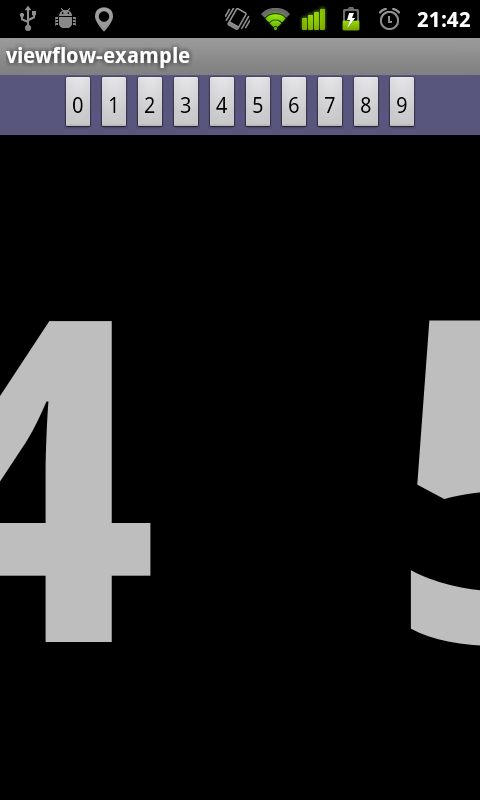
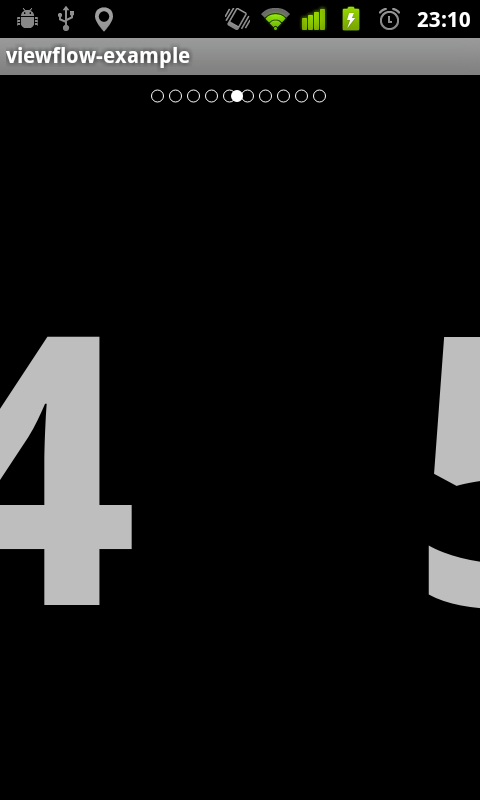
Updating README and screen shot

diff --git a/README.md b/README.md
@@ -31,8 +31,21 @@ If you need to listen to screen change events you would want to implement your o
         }
     });
 
+### Flow Indicator
+It is also possible to add a flow view indicator to your layout. The purpose of a `FlowIndicator` is to present a visual representation of where in the item list focus is at. You may either implement a `FlowIndicator` yourself or use an implementation provided by the View Flow library. Like so:
+
+	<org.taptwo.android.widget.CircleFlowIndicator
+		android:padding="10dip" android:layout_height="wrap_content"
+		android:layout_width="wrap_content" android:id="@+id/viewflowindic"
+		android:background="#00000000"/>
+
+And then you'll need to connect your `ViewFlow` with the `FlowIndicator`:
+	CircleFlowIndicator indic = (CircleFlowIndicator) findViewById(R.id.viewflowindic);
+	viewFlow.setFlowIndicator(indic);
+
 ## Contributions
 
+* Eric Taix
 * Marc Reichelt, <http://marcreichelt.blogspot.com/>
 
 ## License
